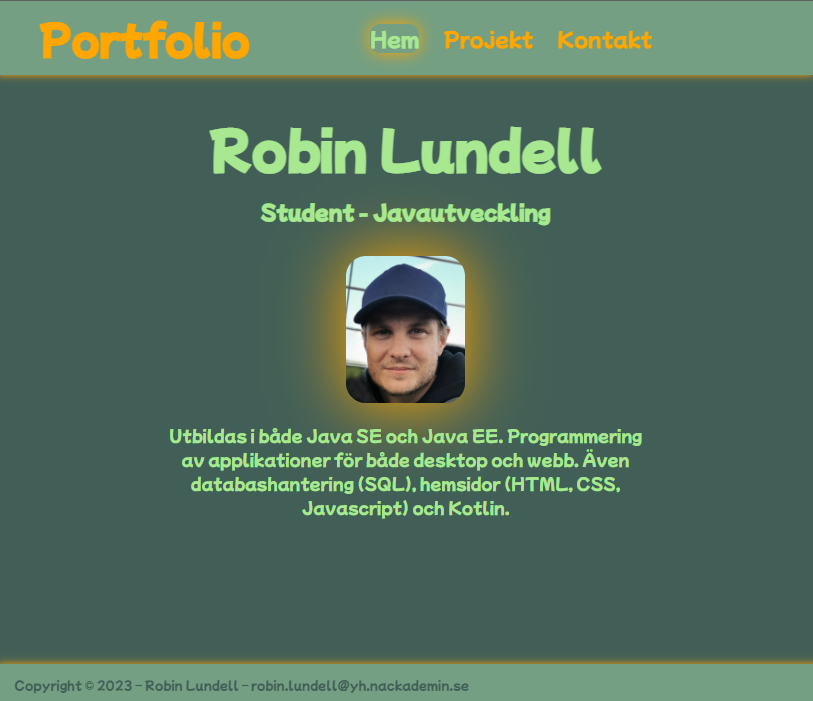
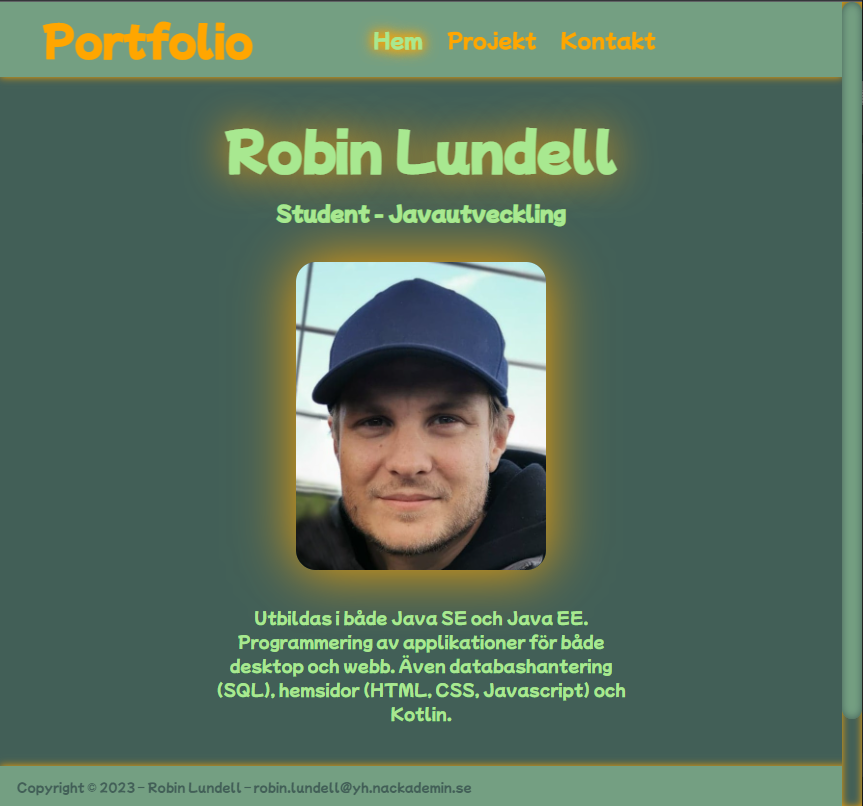
done

Changed region(s): [[0.0, 0.0, 1.0, 1.0]]

diff --git a/style.css b/style.css
@@ -1,19 +1,19 @@
 @import url('https://fonts.googleapis.com/css2?family=Mochiy+Pop+One&display=swap');
 
 ::-webkit-scrollbar {
-    width: 20px; 
-  }
-  
-  ::-webkit-scrollbar-track {
-    background: var(--darkgreen); 
+    width: 20px;
+}
+
+::-webkit-scrollbar-track {
+    background: var(--darkgreen);
     box-shadow: inset 0 0 0.5rem var(--orange);
-  }
-   
-  ::-webkit-scrollbar-thumb {
-    background: var(--midgreen); 
+}
+
+::-webkit-scrollbar-thumb {
+    background: var(--midgreen);
     border-radius: 10px;
     box-shadow: inset 0 0 0.5rem var(--darkgreen);
-  }
+}
 
 :root {
     --darkgreen: #425F57;
@@ -82,7 +82,7 @@ header h2 {
 .navbar .active {
     color: var(--green);
     text-shadow: 0px 0px 10px var(--orange), 0px 0px 15px var(--orange), 0px 0px 15px var(--orange);
-    
+
     border-radius: 10px;
 }
 
@@ -135,8 +135,8 @@ footer .mailcolor:hover {
 }
 
 .index img {
-    width:60%;
-    max-width:250px;
+    width: 60%;
+    max-width: 250px;
     display: block;
     margin-left: auto;
     margin-right: auto;
@@ -146,7 +146,7 @@ footer .mailcolor:hover {
 
 .index p {
     font-family: 'Mochiy Pop One', sans-serif;
-    max-width: 60%;
+    max-width: 50%;
     color: var(--green);
     margin: auto;
     position: relative;
@@ -158,7 +158,6 @@ footer .mailcolor:hover {
 /* PROJECT---------------------------------------- */
 
 .project-box {
-    margin-top: 5px;
     display: flex;
     flex-wrap: wrap;
     position: relative;
@@ -171,6 +170,7 @@ footer .mailcolor:hover {
 }
 
 .project-box img {
+
     max-height: 400px;
     border-radius: 15px;
     box-shadow: 0 0 1rem var(--orange);
@@ -183,6 +183,7 @@ footer .mailcolor:hover {
 .project-box h3 {
     font-family: 'Mochiy Pop One', sans-serif;
     font-size: 28px;
+    margin-top: 50px;
     color: var(--green);
     text-align: center;
 }

diff --git a/projekt.html b/projekt.html
@@ -31,16 +31,16 @@
         <div class="project">
             <h3>Tic Tac Toe</h3>
             <a href="https://github.com/Stuntman1988/TicTacToeProjectExtend" target="_blank"> <img
-                src="images/tictactoe.png" alt="sliding-puzzle"></a>
+                    src="images/tictactoe.png" alt="sliding-puzzle"></a>
         </div>
-    
+
         <div class="project">
             <h3>Portfolio</h3>
-            <a href="https://github.com/Stuntman1988/Frontend-inlG" target="_blank"> <img
-                src="images/portfolio.png" alt="sliding-puzzle"></a>
+            <a href="https://github.com/Stuntman1988/Frontend-inlG" target="_blank"> <img src="images/portfolio.png"
+                    alt="sliding-puzzle"></a>
         </div>
     </div>
-    
+
     <footer>
         <p>Copyright &copy; 2023 – Robin Lundell – <a class="mailcolor" title="Maila mig!"
                 href="mailto:robin.lundell@yh.nackademin.se">robin.lundell@yh.nackademin.se</a></p>

diff --git a/index.html b/index.html
@@ -22,7 +22,7 @@
     <div class="index">
         <h1>Robin Lundell</h1>
         <h2>Student - Javautveckling</h2>
-        <img  src="images/profile.jpg" alt="error">
+        <img src="images/profile.jpg" alt="error">
         <p>Utbildas i både Java SE och Java EE. Programmering av
             applikationer för både desktop och webb. Även databashantering
             (SQL), hemsidor (HTML, CSS, Javascript) och Kotlin.</p>
